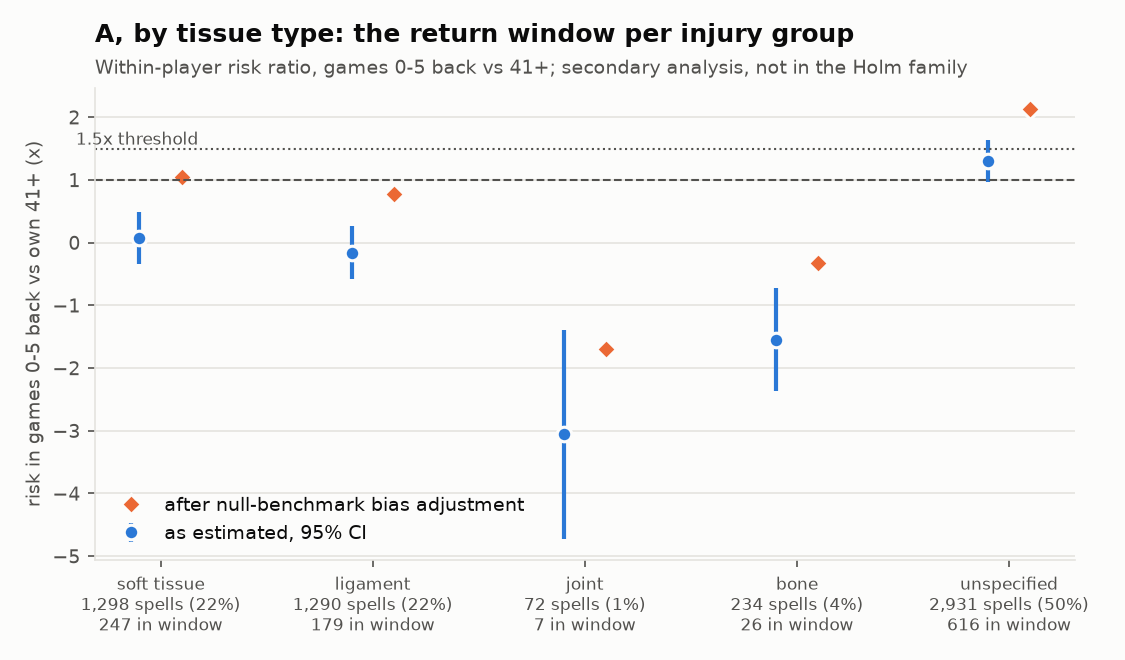
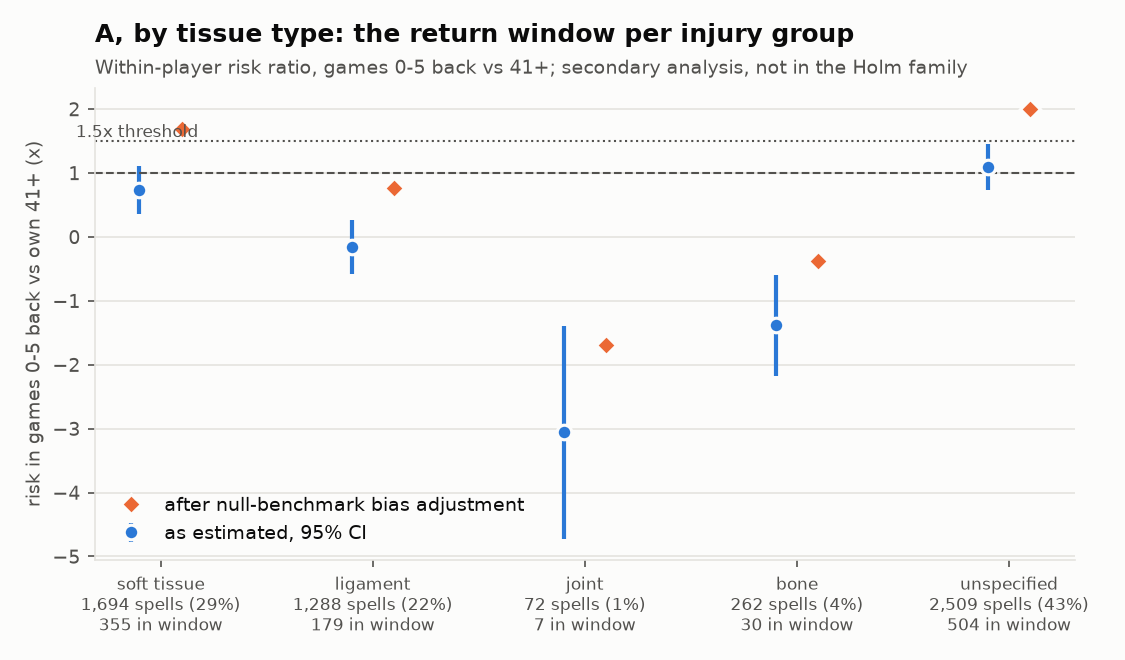
Re-run tissue analysis with revised tissue rules
Rule changes decided 2026-11-27 after the first run, recorded as
amendments in configs/hypotheses.yaml and disclosed in the report:
- bone bruise / bone contusion -> bone (was soft tissue)
- sore, tight or unnamed injury on a muscle region -> soft tissue
  (was unspecified)

Full `run.py hypotheses` and `run.py report` re-run; these outputs replace
the first run. A, B, C and D are unchanged. Tissue audit sample redrawn
(it had not been labelled yet).

diff --git a/src/injuryrisk/labels/vocab.py b/src/injuryrisk/labels/vocab.py
@@ -341,26 +341,38 @@ TISSUE_BY_PATHOLOGY: dict[str, str] = {
     "sprained": "ligament", "dislocated": "joint", "fractured": "bone",
 }
 
-#: Regions that are muscles: a "tear" there is a muscle tear (soft tissue).
+#: Regions that are muscles: a "tear" there is a muscle tear (soft tissue), and
+#: so (rule change 2026-11-27) is a sore or unnamed injury there.
 MUSCLE_REGIONS: tuple[str, ...] = ("hamstring", "calf", "groin", "quadriceps", "thigh", "core muscle")
 
+BONE_BRUISE_LANGUAGE: tuple[str, ...] = ("bone bruise", "bone bruising", "bone contusion")
 
-def tissue_group(pathology: str | None, structure: str | None, region: str | None) -> str:
+
+def tissue_group(pathology: str | None, structure: str | None, region: str | None,
+                 bone_bruise: bool = False) -> str:
     """Tissue type of an injury from the parsed note. Structure beats pathology.
 
     "Torn" names no tissue on its own: it is soft tissue only on a muscle
     region, otherwise unspecified (a torn ACL is already ligament via its
-    structure). "Sore" and no pathology are unspecified.
+    structure). A bone bruise is bone, not a contusion. Rule changes made
+    2026-11-27, after the first run (configs/hypotheses.yaml): bone bruise ->
+    bone, and an injury on a muscle region that would otherwise be
+    unspecified ("sore hamstring", "calf injury") -> soft tissue.
     """
     if structure in TISSUE_BY_STRUCTURE:
         return TISSUE_BY_STRUCTURE[structure]
+    if bone_bruise:
+        return "bone"
     if pathology == "torn":
         return "soft_tissue" if region in MUSCLE_REGIONS else "unspecified"
-    return TISSUE_BY_PATHOLOGY.get(pathology, "unspecified")
+    group = TISSUE_BY_PATHOLOGY.get(pathology, "unspecified")
+    if group == "unspecified" and region in MUSCLE_REGIONS:
+        return "soft_tissue"
+    return group
 
 
 def note_tissue_group(note: str | None) -> str:
     """:func:`tissue_group` of a raw note, via the same parser as ``classify_note``."""
     text = (note or "").lower()
     return tissue_group(find_term(text, PATHOLOGY_TERMS), find_term(text, STRUCTURE_TERMS),
-                        find_term(text, REGION_TERMS))
+                        find_term(text, REGION_TERMS), contains_any(text, BONE_BRUISE_LANGUAGE))

diff --git a/src/injuryrisk/report_hypotheses.py b/src/injuryrisk/report_hypotheses.py
@@ -338,9 +338,17 @@ def _section_a_tissue(spec) -> list[str]:
         "ligament, meniscus -> joint, tibia -> bone, Achilles or patellar tendon -> soft tissue); otherwise the "
         "pathology does: strain, tendinitis and bruise -> soft tissue, sprain -> ligament, dislocation -> joint, "
         "fracture -> bone. A tear counts as soft tissue only on a muscle (hamstring, calf, groin...). Sore, "
-        "tight or unnamed injuries are **unspecified**, which is kept as its own group. Ligament is kept "
-        "separate from soft tissue on purpose. A's primary design (0-5 vs 41+) is then rerun on rows whose "
-        "previous injury spell is in each group.\n")
+        "tight or unnamed injuries elsewhere (\"sore knee\", \"ankle injury\") are **unspecified**, which is kept "
+        "as its own group. Ligament is kept separate from soft tissue on purpose. A's primary design (0-5 vs "
+        "41+) is then rerun on rows whose previous injury spell is in each group.\n")
+    out.append(
+        "**Two rules were changed after the first run** (2026-11-27, recorded as amendments in "
+        "`configs/hypotheses.yaml`), following a hand check of 100 random notes and every edge case: a **bone "
+        "bruise** now counts as bone rather than a soft-tissue bruise, and a sore, tight or unnamed injury on a "
+        "**muscle region** (\"sore hamstring\", \"calf injury\", \"groin tightness\") now counts as soft tissue "
+        "rather than unspecified. Both were decided on clinical grounds, but they were made after the first "
+        "results had been seen, so this analysis is exploratory. The first-run table is in the commit history "
+        "(`b27d00d`).\n")
     shares = tis.drop_duplicates("tissue_group")[["tissue_group", "injury_spells", "spell_share"]]
     uns = shares.set_index("tissue_group").loc["unspecified", "spell_share"]
     out.append(_table(shares.reset_index(drop=True), 3) + "\n")

diff --git a/src/injuryrisk/hypotheses.py b/src/injuryrisk/hypotheses.py
@@ -34,8 +34,8 @@ from injuryrisk.evaluate.bootstrap import PlayerBootstrap, ci
 from injuryrisk.evaluate.metrics import safe_ap
 from injuryrisk.evaluate.splits import forward_chain, usable_seasons
 from injuryrisk.features.common import asof_last
-from injuryrisk.labels.vocab import (PATHOLOGY_TERMS, REGION_TERMS, STRUCTURE_TERMS, TISSUE_GROUPS,
-                                     find_term, tissue_group)
+from injuryrisk.labels.vocab import (BONE_BRUISE_LANGUAGE, PATHOLOGY_TERMS, REGION_TERMS, STRUCTURE_TERMS,
+                                     TISSUE_GROUPS, contains_any, find_term, tissue_group)
 from injuryrisk.models.baselines import HISTORY_AGE_ROLE, BaseRate, logistic
 from injuryrisk.paths import CONFIGS
 
@@ -129,7 +129,7 @@ def parse_tissue(notes: pd.Series) -> pd.DataFrame:
     for n in notes.unique():
         t = n.lower()
         p, st, r = find_term(t, PATHOLOGY_TERMS), find_term(t, STRUCTURE_TERMS), find_term(t, REGION_TERMS)
-        parsed[n] = (p, st, r, tissue_group(p, st, r))
+        parsed[n] = (p, st, r, tissue_group(p, st, r, contains_any(t, BONE_BRUISE_LANGUAGE)))
     return pd.DataFrame([parsed[n] for n in notes], index=notes.index,
                         columns=["pathology", "structure", "region", "tissue_group"])
 

diff --git a/tests/test_hypotheses.py b/tests/test_hypotheses.py
@@ -70,6 +70,14 @@ def test_tissue_mapping():
         "torn ligament in thumb": "ligament",
         "torn knee": "unspecified",           # a tear with no muscle and no structure names no tissue
         "illness": "unspecified",
+        # Rule changes 2026-11-27 (configs/hypotheses.yaml, amendments):
+        "bone bruise in left knee": "bone",
+        "sore right hamstring": "soft_tissue",
+        "left calf injury": "soft_tissue",
+        "tightness in groin": "soft_tissue",
+        "left adductor injury": "soft_tissue",
+        "sprained groin": "ligament",         # a sprain keeps its rule
+        "sore right ankle": "unspecified",    # not a muscle region
     }
     for note, group in cases.items():
         assert note_tissue_group(note) == group, note

diff --git a/reports/REPORT.md b/reports/REPORT.md
@@ -130,45 +130,47 @@ Why not just read the raw curve? In the same simulations with no window, the poo
 
 ### 2a. Secondary: does the window depend on the tissue type? (outside Holm)
 
-Each injury spell gets a tissue group from its cause note, read by the same vocabulary parser that classifies notes (`tissue_group` in `labels/vocab.py`). A named structure decides first (ACL -> ligament, meniscus -> joint, tibia -> bone, Achilles or patellar tendon -> soft tissue); otherwise the pathology does: strain, tendinitis and bruise -> soft tissue, sprain -> ligament, dislocation -> joint, fracture -> bone. A tear counts as soft tissue only on a muscle (hamstring, calf, groin...). Sore, tight or unnamed injuries are **unspecified**, which is kept as its own group. Ligament is kept separate from soft tissue on purpose. A's primary design (0-5 vs 41+) is then rerun on rows whose previous injury spell is in each group.
+Each injury spell gets a tissue group from its cause note, read by the same vocabulary parser that classifies notes (`tissue_group` in `labels/vocab.py`). A named structure decides first (ACL -> ligament, meniscus -> joint, tibia -> bone, Achilles or patellar tendon -> soft tissue); otherwise the pathology does: strain, tendinitis and bruise -> soft tissue, sprain -> ligament, dislocation -> joint, fracture -> bone. A tear counts as soft tissue only on a muscle (hamstring, calf, groin...). Sore, tight or unnamed injuries elsewhere ("sore knee", "ankle injury") are **unspecified**, which is kept as its own group. Ligament is kept separate from soft tissue on purpose. A's primary design (0-5 vs 41+) is then rerun on rows whose previous injury spell is in each group.
+
+**Two rules were changed after the first run** (2026-11-27, recorded as amendments in `configs/hypotheses.yaml`), following a hand check of 100 random notes and every edge case: a **bone bruise** now counts as bone rather than a soft-tissue bruise, and a sore, tight or unnamed injury on a **muscle region** ("sore hamstring", "calf injury", "groin tightness") now counts as soft tissue rather than unspecified. Both were decided on clinical grounds, but they were made after the first results had been seen, so this analysis is exploratory. The first-run table is in the commit history (`b27d00d`).
 
 | tissue_group | injury_spells | spell_share |
 |---|---|---|
-| soft_tissue | 1298 | 0.223 |
-| ligament | 1290 | 0.221 |
+| soft_tissue | 1694 | 0.291 |
+| ligament | 1288 | 0.221 |
 | joint | 72 | 0.012 |
-| bone | 234 | 0.040 |
-| unspecified | 2931 | 0.503 |
+| bone | 262 | 0.045 |
+| unspecified | 2509 | 0.431 |
 
-**Limitation:** 50% of injury spells are unspecified: the note names a body part and soreness, or nothing, and no tissue. Any tissue-level conclusion rests on the other half. A stratified sample of 60 cause notes (12 per group) is in `data/external/tissue_audit_sample.csv` with a blank `true_group` column for hand labelling; **the tissue mapping has not been audited yet.**
+**Limitation:** 43% of injury spells are unspecified: the note names a body part and soreness, or nothing, and no tissue. Any tissue-level conclusion rests on the other half. A stratified sample of 60 cause notes (12 per group) is in `data/external/tissue_audit_sample.csv` with a blank `true_group` column for hand labelling; **the tissue mapping has not been audited yet.**
 
 ![Return-window risk ratio by tissue type](fig_a_tissue.png)
 
 | tissue_group | outcome | rows | window_rows | window_positives | ref_rate | rr | rr_lo | rr_hi | rr_null | rr_bias_adjusted |
 |---|---|---|---|---|---|---|---|---|---|---|
-| soft_tissue | any new spell | 56317 | 6682 | 247 | 0.013 | 0.076 | -0.344 | 0.495 | 0.021 | 1.055 |
-| soft_tissue | new spell, same region | 56317 | 6682 | 157 | 0.003 | 2.974 | 1.888 | 4.059 | -0.316 | 4.290 |
-| soft_tissue | new spell, different region | 56317 | 6682 | 90 | 0.010 | -0.985 | -1.376 | -0.594 | 0.182 | -0.167 |
-| ligament | any new spell | 70226 | 6920 | 179 | 0.012 | -0.157 | -0.576 | 0.262 | 0.061 | 0.782 |
-| ligament | new spell, same region | 70226 | 6920 | 111 | 0.004 | 1.504 | 0.531 | 2.477 | -0.177 | 2.681 |
-| ligament | new spell, different region | 70226 | 6920 | 68 | 0.008 | -0.959 | -1.370 | -0.549 | 0.151 | -0.110 |
+| soft_tissue | any new spell | 68268 | 8647 | 355 | 0.014 | 0.730 | 0.353 | 1.107 | 0.047 | 1.683 |
+| soft_tissue | new spell, same region | 68268 | 8647 | 224 | 0.003 | 4.416 | 3.391 | 5.440 | -0.307 | 5.723 |
+| soft_tissue | new spell, different region | 68268 | 8647 | 131 | 0.010 | -0.530 | -0.869 | -0.190 | 0.276 | 0.194 |
+| ligament | any new spell | 70105 | 6908 | 179 | 0.012 | -0.160 | -0.581 | 0.260 | 0.079 | 0.760 |
+| ligament | new spell, same region | 70105 | 6908 | 111 | 0.004 | 1.508 | 0.534 | 2.482 | -0.137 | 2.645 |
+| ligament | new spell, different region | 70105 | 6908 | 68 | 0.008 | -0.968 | -1.381 | -0.556 | 0.161 | -0.129 |
 | joint | any new spell | 3980 | 393 | 7 | 0.010 | -3.057 | -4.725 | -1.390 | -0.367 | -1.690 |
 | joint | new spell, same region | 3980 | 393 | 1 | 0.001 | -6.113 | -13.136 | 0.910 | -0.280 | -4.833 |
 | joint | new spell, different region | 3980 | 393 | 6 | 0.009 | -2.575 | -4.161 | -0.988 | -0.318 | -1.256 |
-| bone | any new spell | 12723 | 1235 | 26 | 0.012 | -1.548 | -2.366 | -0.729 | -0.231 | -0.317 |
-| bone | new spell, same region | 12723 | 1235 | 13 | 0.002 | 0.476 | -1.889 | 2.841 | -0.444 | 1.920 |
-| bone | new spell, different region | 12723 | 1235 | 13 | 0.009 | -2.062 | -2.932 | -1.192 | 0.027 | -1.089 |
-| unspecified | any new spell | 111615 | 14503 | 616 | 0.013 | 1.300 | 0.962 | 1.638 | 0.174 | 2.127 |
-| unspecified | new spell, same region | 111615 | 14503 | 390 | 0.003 | 7.267 | 6.026 | 8.509 | -0.341 | 8.608 |
-| unspecified | new spell, different region | 111615 | 14503 | 226 | 0.011 | -0.155 | -0.417 | 0.107 | 0.375 | 0.470 |
+| bone | any new spell | 14643 | 1392 | 30 | 0.012 | -1.383 | -2.175 | -0.592 | -0.006 | -0.378 |
+| bone | new spell, same region | 14643 | 1392 | 16 | 0.002 | 0.584 | -1.975 | 3.143 | -0.396 | 1.980 |
+| bone | new spell, different region | 14643 | 1392 | 14 | 0.009 | -1.875 | -2.692 | -1.059 | -0.060 | -0.816 |
+| unspecified | any new spell | 97865 | 12393 | 504 | 0.013 | 1.087 | 0.727 | 1.447 | 0.091 | 1.997 |
+| unspecified | new spell, same region | 97865 | 12393 | 320 | 0.003 | 6.816 | 5.503 | 8.129 | -0.486 | 8.302 |
+| unspecified | new spell, different region | 97865 | 12393 | 184 | 0.010 | -0.311 | -0.606 | -0.016 | 0.297 | 0.392 |
 
 **Reading.** Splitting by group shortens each player's panel, so the raw ratios carry the design's short-panel bias (section 2), and several are below zero, which is impossible as a true effect. Read the bias-adjusted column, and only for the large groups.
 
-- soft tissue: 1.05x bias-adjusted for any new spell, 4.29x for a new spell in the same region (247 new spells in the window).
-- ligament: 0.78x bias-adjusted for any new spell, 2.68x for a new spell in the same region (179 new spells in the window).
-- unspecified: 2.13x bias-adjusted for any new spell, 8.61x for a new spell in the same region (616 new spells in the window).
+- soft tissue: 1.68x bias-adjusted for any new spell, 5.72x for a new spell in the same region (355 new spells in the window).
+- ligament: 0.76x bias-adjusted for any new spell, 2.64x for a new spell in the same region (179 new spells in the window).
+- unspecified: 2.00x bias-adjusted for any new spell, 8.30x for a new spell in the same region (504 new spells in the window).
 - The window is strongest after **unspecified** returns. Those are mostly "sore" or "tightness" notes, so part of the window may be the same niggle logged again rather than a new injury; the same-region excess points the same way. In every large group the excess is in the **same region**, as in the pooled result.
-- joint and bone: joint has 7 new spells in the window; bone has 26 new spells in the window. **Underpowered**: the estimates are dominated by the bias and noise and are not read.
+- joint and bone: joint has 7 new spells in the window; bone has 30 new spells in the window. **Underpowered**: the estimates are dominated by the bias and noise and are not read.
 
 ## 3. Hypothesis B (supporting): acquired players
 
@@ -292,11 +294,11 @@ The gain on new-team rows is not detectably larger than on same-team rows (diffe
 | with this game's minutes | 42678 | 1321 | 5122 | 0.674 | 0.442 | 0.906 | 0.000 | -0.033 | 0.707 |
 | previous spell minor | 32519 | 1104 | 3952 | 0.121 | -0.171 | 0.412 | 0.209 | 0.024 | 0.097 |
 | previous spell major | 10159 | 217 | 1170 | 0.091 | -0.301 | 0.482 | 0.325 | 0.076 | 0.015 |
-| previous spell soft_tissue | 9701 | 300 | 1159 | 0.082 | -0.526 | 0.691 | 0.396 | -0.197 | 0.280 |
-| previous spell ligament | 10069 | 251 | 1162 | -0.293 | -0.777 | 0.191 | 0.882 | -0.176 | -0.117 |
+| previous spell soft_tissue | 12397 | 418 | 1507 | 0.016 | -0.523 | 0.555 | 0.477 | 0.003 | 0.013 |
+| previous spell ligament | 10049 | 251 | 1160 | -0.300 | -0.790 | 0.190 | 0.885 | -0.057 | -0.243 |
 | previous spell joint | 590 | 11 | 65 | 2.809 | 0.212 | 5.407 | 0.017 | 1.563 | 1.247 |
-| previous spell bone | 1766 | 32 | 200 | 0.643 | -0.621 | 1.907 | 0.159 | 0.541 | 0.102 |
-| previous spell unspecified | 20552 | 727 | 2536 | 0.263 | -0.133 | 0.659 | 0.096 | 0.056 | 0.207 |
+| previous spell bone | 2012 | 36 | 227 | 0.941 | -0.518 | 2.400 | 0.103 | 0.444 | 0.497 |
+| previous spell unspecified | 17630 | 605 | 2163 | 0.331 | -0.078 | 0.739 | 0.056 | 0.134 | 0.196 |
 | era 2006-17 | 25112 | 614 | 2916 | 0.070 | -0.195 | 0.336 | 0.302 | 0.003 | 0.068 |
 | era 2018-23 | 17566 | 707 | 2238 | 0.104 | -0.282 | 0.491 | 0.298 | -0.045 | 0.150 |
 | without 2021-22 | 37590 | 1068 | 4459 | 0.075 | -0.152 | 0.301 | 0.259 | -0.026 | 0.101 |
